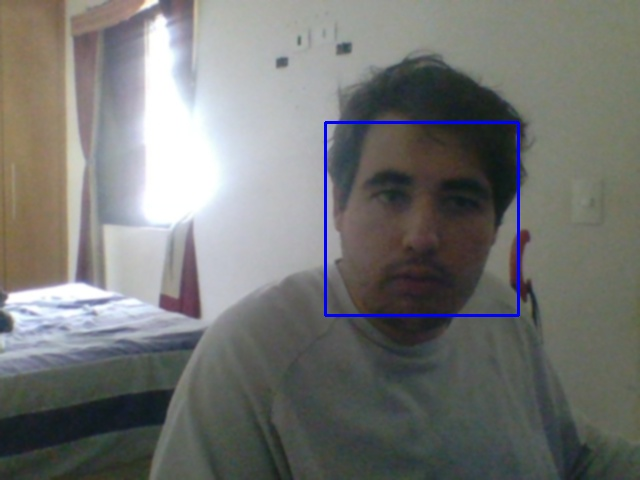
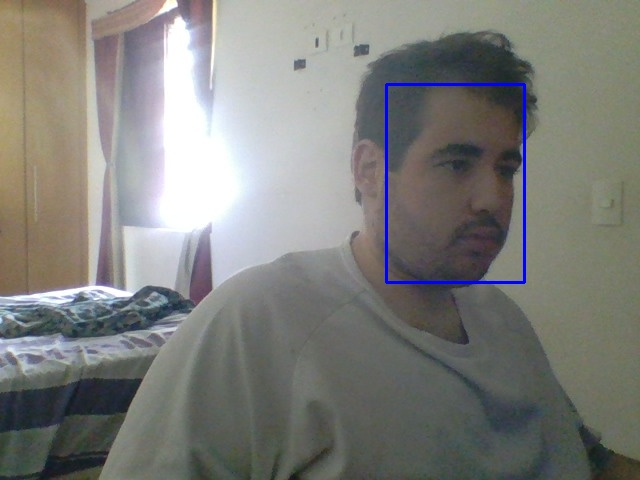
Melhorias de qualidade de vida para a apresentação.

diff --git a/source/register_app.py b/source/register_app.py
@@ -5,26 +5,32 @@ from take_and_analyze_a_picture_neural import tirar_e_analisar_foto_rede as tira
 from database_connection import conexao_a_database
 
 global image_path
+image_path = None
 
 
 # Função para salvar os dados no banco de dados
 def salvar_dados(nome, cargo, image_path_def):
-    if nome and cargo and image_path_def:
-        try:
-            with conexao_a_database() as conn:
-                cursor = conn.cursor()
-                cursor.execute('''
-                    INSERT INTO pessoasautorizadas (nome_completo, cargo, rosto) VALUES (%s, %s, %s)
-                ''', (nome, cargo, image_path_def))
-                conn.commit()
-            messagebox.showinfo("Sucesso", "Dados inseridos com sucesso!")
-        except Exception as e:
-            if "image_path" in str(e):
-                messagebox.showerror("Erro", "Tire uma foto antes de salvar")
-            else:
-                messagebox.showerror("Erro", f"Erro ao salvar os dados: {e}")
-    else:
-        messagebox.showwarning("Aviso", "Preencha todos os campos e tire uma foto antes de salvar!")
+    try:
+        if not nome:
+            raise ValueError("Nome não foi preenchido.")
+        if not cargo:
+            raise ValueError("Cargo não foi selecionado.")
+        if not image_path_def:
+            raise ValueError("Foto não foi tirada.")
+
+        with conexao_a_database() as conn:
+            cursor = conn.cursor()
+            cursor.execute('''
+                INSERT INTO pessoasautorizadas (nome_completo, cargo, rosto) VALUES (%s, %s, %s)
+            ''', (nome, cargo, image_path_def))
+            conn.commit()
+        messagebox.showinfo("Sucesso", "Dados inseridos com sucesso!")
+        return True
+    except ValueError as ve:
+        messagebox.showwarning("Aviso", str(ve))
+    except Exception as e:
+        messagebox.showerror("Erro", f"Erro ao salvar os dados: {e}")
+    return False
 
 
 def tirar_foto_wrapper():
@@ -68,8 +74,11 @@ def criar_ui():
         global image_path
         nome = entry_nome.get()
         cargo2 = cargo_var.get()
-        salvar_dados(nome, cargo2, image_path)
-        image_path = None  # Reseta o image_path para que o usuario possa continuar adicionando funcionarios
+        if not image_path:
+            messagebox.showwarning("Aviso", "Por favor, tire a foto antes de salvar.")
+            return
+        if salvar_dados(nome, cargo2, image_path):
+            image_path = None  # Reseta o image_path para que o usuario possa continuar adicionando funcionarios
 
     btn_foto = tk.Button(root, text="Tirar Foto", command=on_tirar_foto)
     btn_foto.grid(row=8, column=1, padx=10, pady=10)

diff --git a/source/take_and_analyze_a_picture_neural.py b/source/take_and_analyze_a_picture_neural.py
@@ -2,7 +2,6 @@ import cv2
 import os
 import numpy as np
 
-
 def tirar_e_analisar_foto_rede(save_path, image_name):
     image_path = None
     print("Tirando foto..."
@@ -59,14 +58,22 @@ def tirar_e_analisar_foto_rede(save_path, image_name):
 
         # Verificar se a tecla 'ESC' foi pressionada para salvar a imagem e sair
         if cv2.waitKey(1) & 0xFF == 27:  # 27 is the ASCII code for ESC
-            image_path = os.path.join(save_path, image_name)
-            cv2.imwrite(image_path, frame)
-            print(f"Imagem salva em: {image_path}")
-            print(f"Número de rostos detectados: {num_faces}")
-            break
+            if num_faces == 1:
+                image_path = os.path.join(save_path, image_name)
+                cv2.imwrite(image_path, frame)
+                print(f"Imagem salva em: {image_path}")
+                print(f"Número de rostos detectados: {num_faces}")
+                break
+            elif num_faces == 0:
+                print("Nenhum rosto detectado. Tente novamente.")
+            else:
+                print("Mais de um rosto detectado. Tente novamente.")
 
     # Libera a webcam e fecha as janelas
     cap.release()
     cv2.destroyAllWindows()
 
     return image_path
+
+
+# tirar_e_analisar_foto_rede('faces/analyzing', 'imagem_capturada.jpg')

diff --git a/source/main.py b/source/main.py
@@ -3,7 +3,7 @@ from take_and_analyze_a_picture_neural import tirar_e_analisar_foto_rede as tira
 from face_comparison import comparar_faces_funcionarios
 from file_opening import abrir_arquivos
 
-# Bloco destinado a captura, analise e comparação de rostos
+# Bloco destinado à captura, analise e comparação de rostos
 image_path = tirar_e_analisar_foto('faces/analyzing', 'imagem_capturada.jpg')
 cargo_do_analisado = comparar_faces_funcionarios(image_path)
 print(f"Cargo do analisado: {cargo_do_analisado}")
